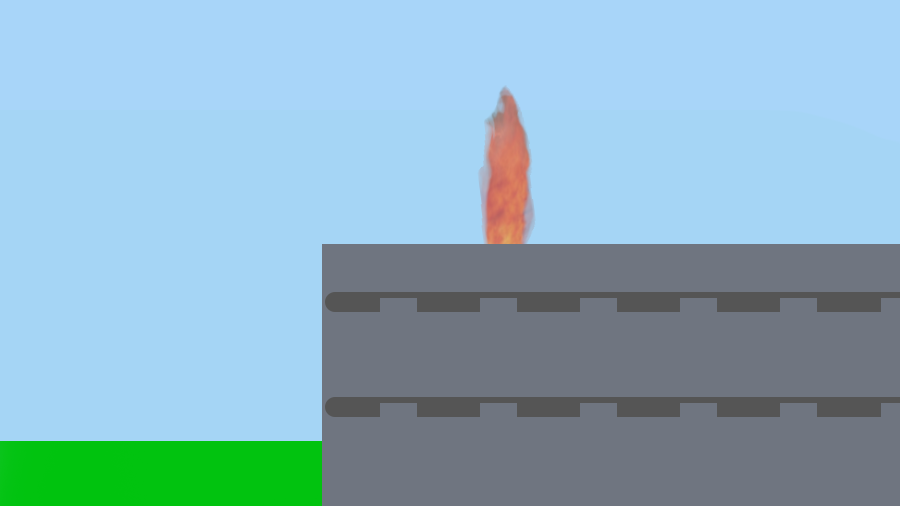
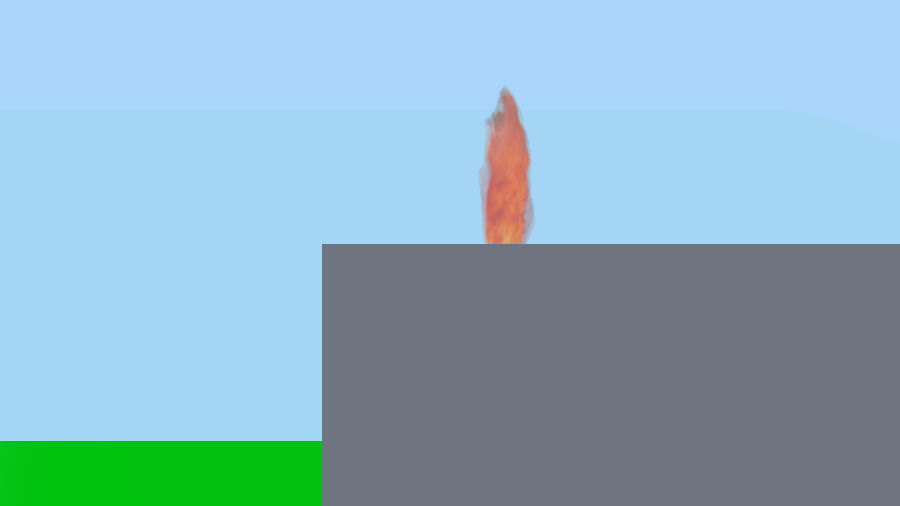
Removed windows from Flame Length graphics.  Changed keywords.

Changed region(s): [[0.3422, 0.7708, 1.0, 0.83], [0.3422, 0.5632, 1.0, 0.6225]]

diff --git a/index.html b/index.html
@@ -47,7 +47,7 @@
     
   </h1>
 	<div id="DocSubtitle"><span style="font-size:9px;line-height:80%">By Bob Bourgeois</span><br>
-	  <span style="font-size:.5rem;line-height:.2">1st draft 13Apr21&nbsp;&nbsp;&nbsp; Latest rev 3Mar23<br>Feedback/Qs roomfiresetc@gmail.com</span></div>
+	  <span style="font-size:.5rem;line-height:.2">1st draft 13Apr21&nbsp;&nbsp;&nbsp; Latest rev 4Mar23<br>Feedback/Qs roomfiresetc@gmail.com</span></div>
 	  
 	
 </header>	
@@ -61,14 +61,14 @@ gases.</p>
 	
 <p>Knockdown is <strong>not</strong> about absorbing all the fire's heat 
 	  <span class = "tooltip">(HRR).<span class="tooltipcontent"><span class="tooltiptext" >Heat Release Rate</span></span></span>
-&nbsp;  What matters is the surface area that water is hitting at the moment.&nbsp;  If that area goes out and does not reignite immediately, the stream can make progress by wetting more fuel.&nbsp; If you can make progress you can put the fire out.&nbsp; If most burning fuel surfaces can be painted with water, knockdown happens in seconds</p>
+&nbsp;  What matters is the surface area that water is hitting at the moment.&nbsp;  If that area goes out and does not reignite immediately, the stream can make progress by wetting more fuel.&nbsp; If you can make progress you can put the fire out.&nbsp; If most burning fuel surfaces can be painted with water, knockdown happens in seconds.</p>
 	
 <p>Two progress-related concepts go a little deeper:</p>
 	
 	<ul>
-		<li>The first is 
-			<span class = "tooltip"><strong>progress instability</strong><span class="tooltipcontent"><span class="tooltipimage"><img src="images/F2.gif" width="382" height="206" alt="Stability animation"/></span></span></span>
-		—how quickly the fire could grow back.&nbsp; If you imagine an interruption in water flow:&nbsp; <strong>stable</strong>  progress will persist after the water stops; <strong>unstable</strong> progress can quickly be lost (fire flashes back). </li>
+		<li>The first is <strong>progress instability</Strong>
+		<!--	<span class = "tooltip"><strong>progress instability</strong><span class="tooltipcontent"><span class="tooltipimage"><img src="images/F2.gif" width="382" height="206" alt="Stability animation"/></span></span></span>-->
+		— how quickly the fire could grow back.&nbsp; If you imagine an interruption in water flow:&nbsp; <strong>stable</strong>  progress will persist after the water stops; <strong>unstable</strong> progress can quickly be lost (fire flashes back). </li>
 		
 		<li>Water's progress will be stable on burning leaves and unstable on gasoline pool fires.&nbsp; Well-involved room fires live in between.&nbsp; <strong>Semi-stable</strong> progress persists for a short time.</li>
 		
@@ -146,7 +146,7 @@ gases.</p>
 	
 <footer>Copyright 2021, 2023 
  <span class = "tooltip">Robert J. Bourgeois<span class="tooltipcontent"><span class="tooltiptext" >Former District Fire Chief (FF 40 yrs),  former LLC owner (public safety case studies), BSME Columbia Univ</span></span></span>	 
-	---- <a href="https://twitter.com/RJB429" target="new">@RJB429</a><br><span style="font-size:.6rem">First draft 13Apr2021, Latest rev 21Feb2023&nbsp;&nbsp;&nbsp;&nbsp;&nbsp;   Feedback and questions welcome.  roomfiresetc gmail.com</span></footer>
+	---- <a href="https://twitter.com/RJB429" target="new">@RJB429</a><br><span style="font-size:.6rem">First draft 13Apr2021, Latest rev 4Mar2023&nbsp;&nbsp;&nbsp;&nbsp;&nbsp;   Feedback and questions welcome.  roomfiresetc gmail.com</span></footer>
 	
 </body>
 </html>

diff --git a/FlameLength.html b/FlameLength.html
@@ -51,7 +51,7 @@
 	
 </header>
 	
-<p>The best structural firefighters know a couple of  things about flame length.</p>	
+<p>The best structural firefighters know a few things about flame length.</p>	
 	
 <p>At building fires, flame length is a clue about how much <strong>airborne fuel</strong> 
 		<span class = "tooltip">(AF)<span class="tooltipcontent"><span class="tooltiptext" ><a href="#AFdef">Airborne fuels</a> include pyrolysis gases, partially burned fuels, vapors from liquids, and normally gaseous fuels.</span></span></span> 
@@ -65,13 +65,13 @@
 		<figcaption>&nbsp;&nbsp;&nbsp;&nbsp;&nbsp;&nbsp;&nbsp;&nbsp;&nbsp;&nbsp;&nbsp;&nbsp;&nbsp;&nbsp;&nbsp;&nbsp;Fig.1&nbsp;  Flame length</figcaption>
 		</figure></p>	
 
-<p>We notice a flame's length when it blows out a window or through a roof hole, but sometimes it's extending across a ceiling or the underside of a roof deck.&nbsp; The length of these sideways flames can be critical to the course of the incident.&nbsp; It may be how far the fire can reach to hurt someone.&nbsp; It may be how fast the fire can spread.&nbsp; It may also be the reason that knockdown is not happening.</p>
+<p>We notice a flame's size when it blows out a window or through a roof hole, but sometimes it's extending across a ceiling or the underside of a roof deck.&nbsp; The length of these sideways flames can be critical to the course of the incident.&nbsp; It may be how far the fire can reach to hurt someone.&nbsp; It may be how fast the fire can spread.&nbsp; It may also be the reason that knockdown is not happening.</p>
 	
 <p>
 		<span class = "tooltip">Stable or semi-stable<span class="tooltipcontent"><span class="tooltipimage">See <a href="Index.html">Room Fires etc</a><img src="images/F2.gif" width="382" height="206" alt="Stability animation"/></span></span></span> 
 	 progress against a fire comes from wetting surfaces that are producing fuel gases 
 		<span class = "tooltip">(pyrolysis).<span class="tooltipcontent"><span class="tooltiptext" >Heat-driven processes that produce fuel gases from solid and liquid fuels</span></span></span>
-	&nbsp; The catch is that long horizontal flames can have a sizeable area where pyrolysis isn't occuring.&nbsp; Water hitting that area does not reduce the production of AF.
+	&nbsp; The catch is that long horizontal flames can have a sizeable area where pyrolysis isn't occuring.&nbsp; Water hitting that area doesn't help much.
 </p>
 	
 <p>If a crew doesn't understand, they may chase the flame pointlessly and/or misread the problem as not enough GPM.</p>

diff --git a/PorchFires.html b/PorchFires.html
@@ -13,7 +13,7 @@
 <meta charset="utf-8">
 <meta name="viewport" content="width=device-width, initial-scale=1">
 <meta name="description" content="Fighting porch fires">
-<meta name="keywords" content="structural firefighting, porch fires, gpm, wetting fuel surfaces">	
+<meta name="keywords" content="porch fires, gpm, wetting fuel surfaces">	
 <title>Porch Fires etc</title>
 <link href="CSS/RoomFires.css" rel="stylesheet" type="text/css">
 <link rel="stylesheet" href="https://cdnjs.cloudflare.com/ajax/libs/font-awesome/4.7.0/css/font-awesome.min.css">	
